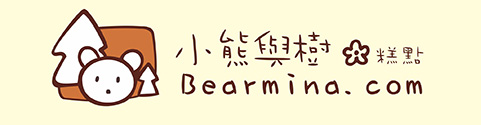
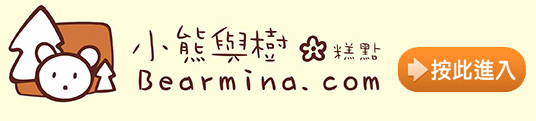
Update

diff --git a/index.html b/index.html
@@ -17,7 +17,7 @@ body {
 <body>
 <table width="500" border="0" align="center" cellpadding="0" cellspacing="0">
   <tr>
-    <td align="center" valign="top"><img src="images/open01.jpg" width="481" height="125" /></td>
+    <td align="center" valign="top"><img src="images/open01.jpg" width="536" height="121" usemap="#Map2" border="0" /></td>
   </tr>
   <tr>
     <td align="center" valign="top"><a href="home.html"><img src="images/open012.jpg" width="481" height="136" /></a></td>
@@ -31,6 +31,10 @@ body {
 </table>
 <map name="Map" id="Map">
   <area shape="rect" coords="20,8,601,104" href="home.html" target="_blank" />
+</map>
+
+<map name="Map2" id="Map2">
+  <area shape="rect" coords="16,8,531,95" href="home.html" target="_blank" />
 </map>
 </body>
 </html>
